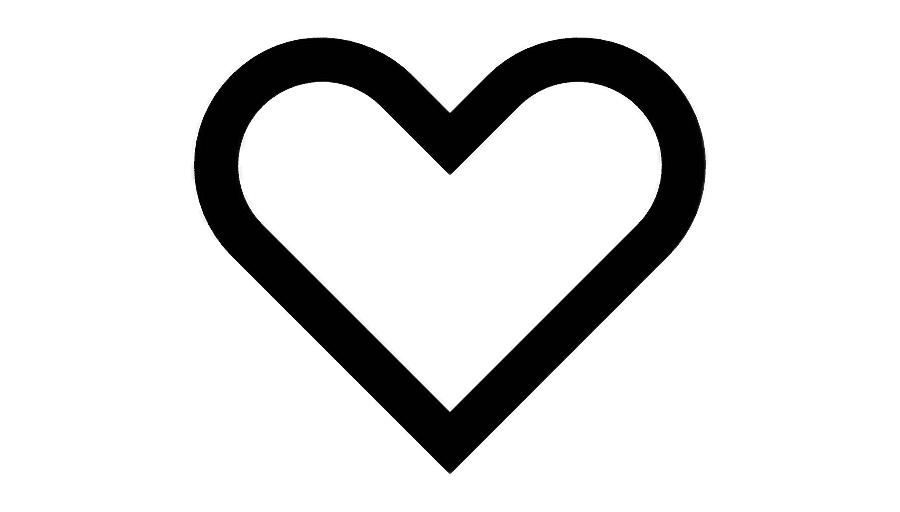
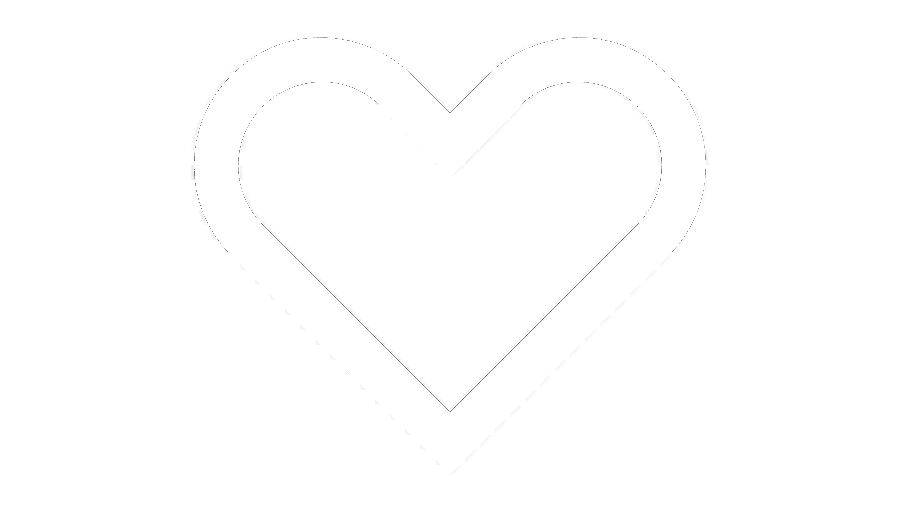
album complete 9.18

Changed region(s): [[0.2178, 0.0625, 0.8089, 0.9375]]

diff --git a/assets/js/script.js b/assets/js/script.js
@@ -147,16 +147,16 @@ async function returnAlbumApi(newA) {
     let onPageAlbum = document.getElementById("albumPage");
     onPageAlbum.classList.remove("d-none");
     document.getElementById("searchPage").classList.add("d-none");
-    document.getElementById("HomePage").classList.add("d-none");
+    document.getElementById("Homepage").classList.add("d-none");
     document.getElementById("artistPage").classList.add("d-none");
     let anno = Number(Math.floor(Math.random() * 20 + 2000));
     let showAlbum = document.getElementById("headAlbum");
-    showAlbum.innerHTML = `<div><p><img src="${album[i].album.cover.medium}" alt="Album"></p></div>
-  <div><h1>${artista[i].artist.name}</h1>
+    showAlbum.innerHTML = `<div><p><img src="${album[i].album.cover_medium}" alt="Album"></p></div>
+  <div><h1>${album[i].artist.name}</h1>
   <p><img src="${album[i].artist.picture_small}" alt="Artista"> ${album[i].artist.name} &#183; ${anno} &#183; 24 songs,<span id="text-gray">49 min 15 sec</span></p></div>`;
     let listen = document.getElementById("listen");
     listen.innerHTML += `<p><img class="w-25 position-absolute preview" src="" alt="" onclick="playA('${album[1].preview}')">
-  <img src="../img/heart_spotify.png" alt="heart">`;
+    <img src="./assets/img/heart_spotify.png" width="40px" alt="heart" class="text-white">`;
     let songsList = document.getElementById("songsList");
     for (let i = 1; i < album.length; i++) {
       let mn = Number(Math.floor(Math.random() * 3 + 3));

diff --git a/index.html b/index.html
@@ -304,8 +304,8 @@
             <div id="albumPage" class="d-none">
               <div id="headAlbum"></div>
               <div id="listen"></div>
-              <div id="songsList"></div>
-              <table class="table table-dark table-hover">
+              <div></div>
+              <table class="table table-dark table-hover" id="songsList">
                 <thead>
                   <tr>
                     <th scope="col">#</th>
@@ -314,14 +314,10 @@
                   </tr>
                 </thead>
                 <tbody>
-                  <tr>
-                    <th scope="row">1</th>
-                    <td>Mark</td>
-                    <td>Otto</td>
-                    <td>@mdo</td>
-                  </tr>
+                  
                 </tbody>
               </table>
+              <div id="moreAlbum"></div>
             </div>
             
 

diff --git a/assets/css/style.css b/assets/css/style.css
@@ -11368,6 +11368,10 @@ i:hover {
   width: 20px;
 }
 
+#albumPage {
+  margin-bottom: 5em;
+}
+
 @media screen and (max-width: 1400px) {
   .right {
     display: none;

diff --git a/assets/scss/style.scss b/assets/scss/style.scss
@@ -612,6 +612,10 @@ i:hover {
 	width: 20px;
 }
 
+#albumPage {
+	margin-bottom: 5em;
+}
+
 @media screen and (max-width: 1400px  ) {
 	.right {
 		display: none;
